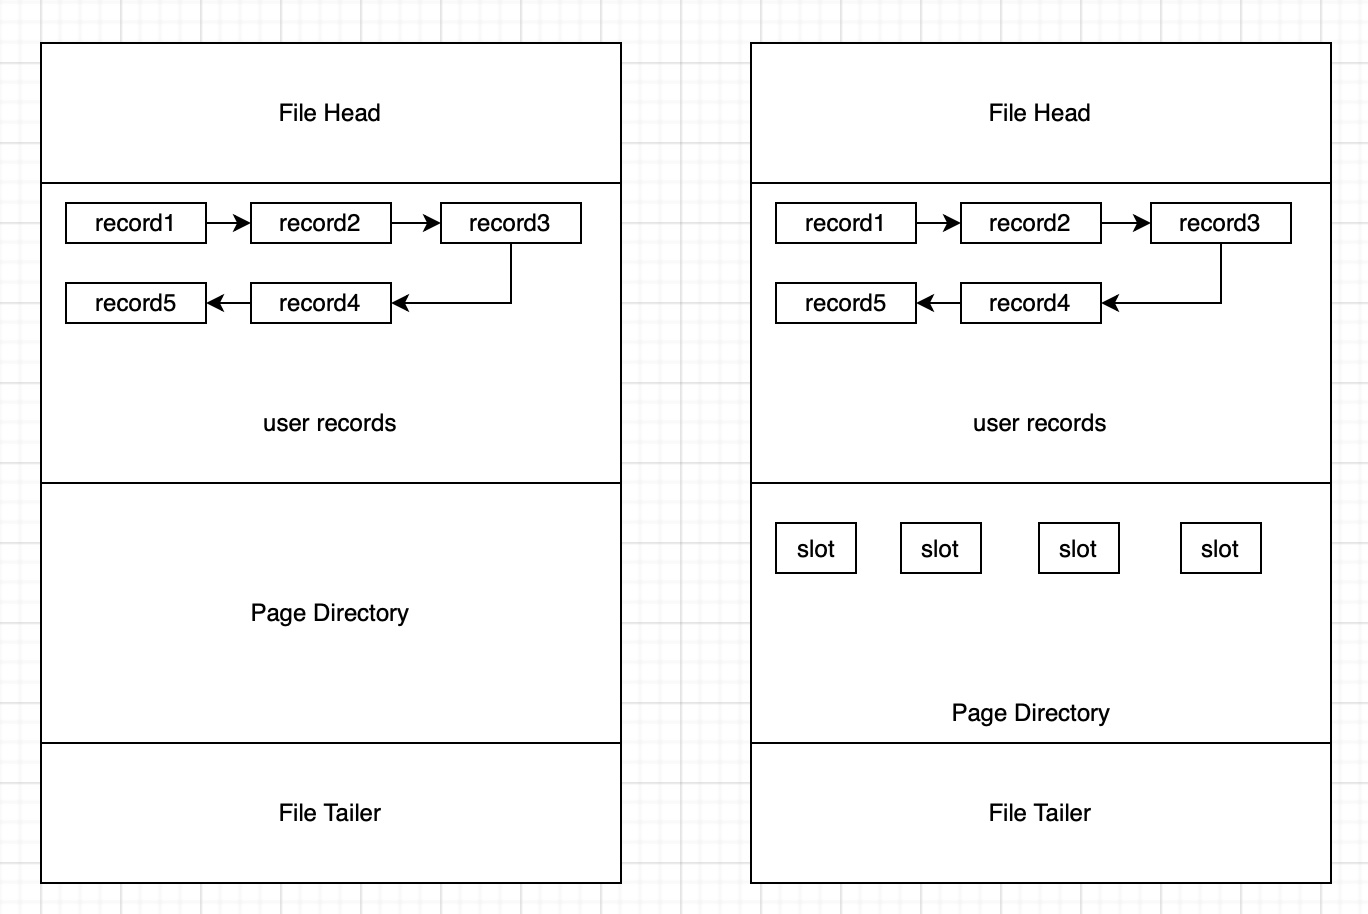
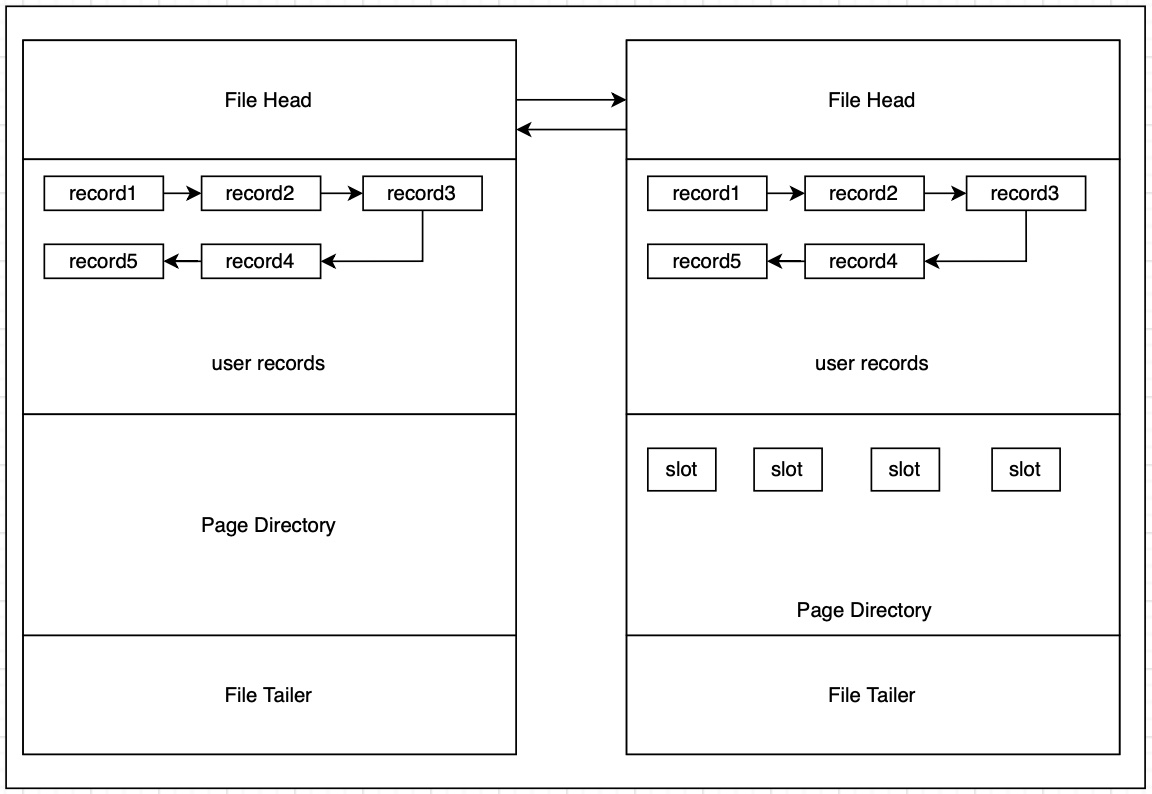
deploy: chuck1in/chuck1in.github.io.source@e59811890db943a7ca34f380ed57c05d58be0c98

diff --git a/post/sqlindex_principle/index.html b/post/sqlindex_principle/index.html
@@ -63,58 +63,60 @@
 <p>上图中的行格式就规定：除了保存记录的列信息以外，还需要在行中保存额外的信息，如：变长字段的占为长度、空值的列、行的头（head）信息等。
 行的头信息中有一个名为 next_record 的指向下一条记录在磁盘上的偏移量的指针，使表中的行构成一个链表，链表的各个节点通过指向磁盘偏移量的指针进行连接。</p>
 <h2 id=页>页</h2>
-<p>innodb 规定，每次从磁盘检索加载数据都以页（16KB/页）为单位。再进一步讲，页就是 innodb 管理存储空间的基本单位。
+<p>是 innodb 管理存储空间的基本单位。 innodb 每次从磁盘检索并加载数据都以页（16KB/页）为单位。
 页有不同的类型，用来保存用户数据的页称为索引页/数据页。一个简化的数据页结构如下所示：</p>
 <p><img src=/images/mysql/page.jpg alt=page></p>
 <p>可见，一个数据页除了保存 user records 以外，还保存了页的元数据（meta data）。</p>
 <h3 id=页目录>页目录</h3>
-<p>由于数据表中的 record 使用 next_record 指针构成一个链表，所以下面查找某一行数据的查询语句</p>
+<p>上文中提到，表中的 record 使用 next_record 指针构成一个链表，所以查找某一行数据在物理上就是已知一个链表的地址，查找链表中某节点的问题。</p>
 <div class=highlight><pre tabindex=0 style=color:#f8f8f2;background-color:#272822;-moz-tab-size:4;-o-tab-size:4;tab-size:4><code class=language-sql data-lang=sql><span style=color:#66d9ef>select</span> <span style=color:#f92672>*</span> <span style=color:#66d9ef>from</span> <span style=color:#66d9ef>table</span> <span style=color:#66d9ef>where</span> id <span style=color:#f92672>=</span> <span style=color:#ae81ff>1</span>;
-</code></pre></div><p>在物理上就是已知一个链表的地址，查找链表中某节点的问题。而查找链表中的节点通常可以采用线性查找法来实现。但是线性查找法的时间复杂度是 $O(n$)，如果数据量较大这个时间复杂度是难以接受的。</p>
+</code></pre></div><p>查找链表中的节点通常可以采用线性查找法来实现。但是线性查找法的时间复杂度是 $O(n$)，如果数据量较大这个时间复杂度是难以接受的。</p>
 <p>为了降低查询的时间复杂度， innodb 采取了类似文件目录的方案。
-首先将用户数据进行逻辑分组，再将每组中最大的记录的地址偏移量集中存储到一起的。当查询某条记录时，先查询记录所在的分组（文件目录），再进入组内（目录内）查找，这样就缩小了线性查找的范围。</p>
-<p><img src=/images/mysql/page-directory.jpg alt=directory></p>
-<p>像这样对数据进行逻辑分组，然后再选取记录分组地址偏移量进行集中存储的空间，我们称为页目录（Page Directory）。</p>
-<p>前面提到过 records 是按照主键顺序排列的，所以在页目录中还可以利用二分查找提升页目录的搜索效率，将时间复杂度降低为 $O(\log n)$</p>
+首先将用户数据进行逻辑分组，再将每组中最大的记录的地址偏移量集中存储到一起的。当查询某条记录时，先查询记录所在的分组（文件目录），再进入组内（目录内）查找，这样就缩小了线性查找的范围。
+像这样对数据进行逻辑分组，然后再选取记录分组地址偏移量进行集中存储的空间，我们称为页目录（Page Directory）。</p>
+<p><img src=/images/mysql/page-dir.jpg alt=directory></p>
+<p>由于 record 是按照主键顺序排列存储在数据页中的，所以还可以利用二分查找提升页目录的搜索效率，将时间复杂度降低为 $O(\log n)$</p>
 <h2 id=聚簇索引>聚簇索引</h2>
-<p>页的大小是有限的（16KB）。如果表中的记录超出了这个容量，那就得使用多个关联页来存储。这些关联页之间通过指针连接形成一个双向链表。</p>
+<p>页的大小是有限的（16KB）。如果表中的记录超出了这个容量，那就得使用多个页来存储 records。然后通过指针将页关联起来，形成一个页的双向链表。</p>
 <p><img src=/images/mysql/page-dirs.jpg alt=dirs></p>
-<p>所以当使用多个页存储数据时，查询用户记录的工作就变为了两步：</p>
+<p>所以当使用多个页存储数据时，查询 record 的工作就变为了两步：</p>
 <ol>
-<li>确定记录所在的页的地址。</li>
-<li>在页中通过页目录查找记录在页中的偏移量。</li>
+<li>确定记录所在的页的地址（页号）。</li>
+<li>通过页目录查找记录在页中的偏移量。</li>
 </ol>
-<p>因为关联的数据页是一个链表结构，所以通过线性查找法肯定可以找到被查找记录所在的页，但是在数据量较大时也存在一样的性能问题。</p>
-<p>那么，是否可以参考页目录的设计将页进行分组呢？先按照页号分组，并保证分组按照数据页中的用户记录的主键顺序进行排序，最后再用一个数据页作为分组后的目录，保存各组中数据页内最小的主键值。</p>
+<p>因为数据页是链表的结构，所以通过线性查找法肯定可以找到被查找记录所在的页。但是在数据量较大时线性查找法的性能依然存在问题。</p>
+<p>那么，是否可以参考页目录的设计将页进行分组呢？先按照页号分组，并保证分组按照数据页中用户记录的主键进行排序，最后再用一个数据页作为分组后的目录，保存各组中数据页内最小的主键值。</p>
 <p><img src=/images/mysql/index.jpg alt=index></p>
-<p>经过这样的构建，复数个关联页形成了一颗 B 树。树根所在的节点就是根页(root page)；存储页号的数据页被称为目录项页；整棵树就是聚簇索引。</p>
-<p>假设我们使用指定值的主键（或者唯一二级索引）为条件，对这个聚簇索引进行查询的话，这个查询的速度会像火箭一样快。</p>
+<p>经过对页进行分组与抽象，使的页从链表转化为一颗 树。树根所在的节点就是根页(root page)；树的内节点是目录项页，用来存储主键与页号的映射；树的叶节点存储完整的记录；整颗 B+ 树就叫做聚簇索引。</p>
+<p>假设我们使用主键（或者唯一二级索引）的等值为条件对这个聚簇索引进行查询的话，这个查询的速度会像火箭一样快。</p>
 <div class=highlight><pre tabindex=0 style=color:#f8f8f2;background-color:#272822;-moz-tab-size:4;-o-tab-size:4;tab-size:4><code class=language-sql data-lang=sql><span style=color:#f92672>//</span> A
 <span style=color:#66d9ef>select</span> <span style=color:#f92672>*</span> <span style=color:#66d9ef>from</span> <span style=color:#66d9ef>table</span> <span style=color:#66d9ef>where</span> id <span style=color:#f92672>=</span> <span style=color:#ae81ff>5</span>;
 <span style=color:#f92672>//</span> <span style=color:#66d9ef>output</span>: id:<span style=color:#ae81ff>5</span> code:b
-</code></pre></div><p>先通过聚簇索引的目录页利用二分查找定位到 id=5 的记录应该在页号为 2 的页中，然后在页目录（Page directory）中再使用二分查找定位到 id=5 的记录在页中的偏移量就能获取到记录内容。</p>
-<p>这种像火箭一样快的查询方法，我们称为常数方法（const）——因为他的效率就和 $O(1$) 一样好。</p>
+</code></pre></div><p>利用二分查找，innodb 先通过聚簇索引的目录项页定位到 <code>id=5</code> 的记录应该在页号为 2 的页中；然后在页 2 的页目录（Page directory） 里搜索<code>id=5</code> 的记录在页中的偏移量就能获取到记录内容。</p>
+<p>这种像火箭一样快的查询方法，我们称为常数方法（const）—— 因为他的效率就和 $O(1$) 一样好。</p>
 <h2 id=二级索引>二级索引</h2>
 <p>针对非主键建立的索引就是二级索引。相比聚簇索引，二级索引的叶节点只存储了两类信息：索引项与索引项对应的主键。</p>
 <p><img src=/images/mysql/ref.jpg alt=ref></p>
-<p>由于二级索引没有存储用户记录的所有列信息，所以针对二级索引的查询工作就变成了三步：</p>
+<p>由于二级索引没有存储 record 的完整信息，所以针对二级索引的查询工作就变成了三步：</p>
 <ol>
 <li>确定记录所在的页。</li>
-<li>在页中通过页目录查找。</li>
-<li>查找到二级索引对应的主键后，回聚簇索引查找完整的内容。</li>
+<li>在页中通过页目录查找记录。</li>
+<li>根据第二步记录的主键，回聚簇索引查找完整的内容。</li>
 </ol>
-<p>这种回聚簇索引查询用户记录的情况，我们称为回表扫描。通过二级索引进行查询的方法称为 ref 查询方法，它的性能相比 const 方法要低一些。</p>
+<p>这种回聚簇索引查询完整记录的方式被称为回表扫描。通过二级索引进行查询的方法称为 ref 查询方法。</p>
 <div class=highlight><pre tabindex=0 style=color:#f8f8f2;background-color:#272822;-moz-tab-size:4;-o-tab-size:4;tab-size:4><code class=language-sql data-lang=sql><span style=color:#f92672>//</span> A
 <span style=color:#66d9ef>select</span> <span style=color:#f92672>*</span> <span style=color:#66d9ef>from</span> <span style=color:#66d9ef>table</span> <span style=color:#66d9ef>where</span> code <span style=color:#f92672>=</span> <span style=color:#e6db74>&#39;a&#39;</span>;
 <span style=color:#f92672>//</span> <span style=color:#66d9ef>output</span>: code:a id:<span style=color:#ae81ff>1</span>
-</code></pre></div><p>如果我们只需要根据二级索引查询 id（主键）的信息，那么就不需要回表扫描了，通过二级索引就可以直接返回结果。这种查询方法称为索引覆盖（index）查询方法。</p>
+</code></pre></div><p>ref 查询方法的性能要比 const 方法低一些。</p>
+<p>但是，假设只根据二级索引查询 id（主键）的信息，那么就不需要回表扫描了，因为二级索引包含了被查询列的信息。</p>
 <div class=highlight><pre tabindex=0 style=color:#f8f8f2;background-color:#272822;-moz-tab-size:4;-o-tab-size:4;tab-size:4><code class=language-sql data-lang=sql><span style=color:#f92672>//</span> B
 <span style=color:#66d9ef>select</span> id <span style=color:#66d9ef>from</span> <span style=color:#66d9ef>table</span> <span style=color:#66d9ef>where</span> code <span style=color:#f92672>=</span> <span style=color:#e6db74>&#39;a&#39;</span>;
 <span style=color:#f92672>//</span> <span style=color:#66d9ef>output</span>: id:<span style=color:#ae81ff>1</span>
-</code></pre></div><h2 id=联合索引>联合索引</h2>
-<p>联合索引就是由多个字段组合，并按照联合字段的顺序对用户记录进行排序的二级索引。</p>
+</code></pre></div><p>查询二级索引可以直接获取到结果的查询方法称为索引覆盖（index）查询方法。</p>
+<h2 id=联合索引>联合索引</h2>
+<p>假如一个二级索引由多个字段组成，那这个二级索引就是一个联合索引。</p>
 <p><img src=/images/mysql/union-index.jpg alt=union></p>
-<p>针对联合索引进行查询时，要注意查询条件需遵守「左前缀原则」，这是由联合索引的底层构造所决定的。不然就无法利用联合索引进行查询。</p>
+<p>针对联合索引进行查询要注意查询条件需遵守「左前缀原则」——这是由联合索引的底层构造所决定的。不然就无法利用联合索引进行查询。</p>
 <div class=highlight><pre tabindex=0 style=color:#f8f8f2;background-color:#272822;-moz-tab-size:4;-o-tab-size:4;tab-size:4><code class=language-sql data-lang=sql><span style=color:#f92672>//</span> A
 <span style=color:#66d9ef>select</span> id <span style=color:#66d9ef>from</span> <span style=color:#66d9ef>table</span> <span style=color:#66d9ef>where</span> code <span style=color:#f92672>=</span> <span style=color:#e6db74>&#39;a&#39;</span> <span style=color:#66d9ef>and</span> code2 <span style=color:#f92672>=</span> <span style=color:#e6db74>&#39;b&#39;</span>;
 <span style=color:#f92672>//</span> <span style=color:#66d9ef>output</span>: id:<span style=color:#ae81ff>1</span>
@@ -128,25 +130,25 @@
 <span style=color:#f92672>//</span> <span style=color:#66d9ef>output</span>: id:<span style=color:#ae81ff>1</span>
 
 
-</code></pre></div><p>上面的语句中，A 语句和 B 语句的查询条件（code && code2）、（code）和联合索引（code,code2）的索引字段顺序一致，所以可以通过索引树提高查找效率。
-B 语句的查询条件不符合索引字段的顺序，所以无法利用索引树查询提高效率，存储引擎在执行时会使用全表扫描查询方法（all）。</p>
+</code></pre></div><p>上面的语句中，A 语句和 B 语句的查询条件 <code>[(code && code2),(code)]</code> 和联合索引 <code>(code,code2)</code> 的索引字段顺序一致，可以通过索引树提高查找效率。
+但是由于 B 语句的查询条件不符合索引字段的顺序，所以无法利用索引树提高查询效率。</p>
 <div class=highlight><pre tabindex=0 style=color:#f8f8f2;background-color:#272822;-moz-tab-size:4;-o-tab-size:4;tab-size:4><code class=language-sql data-lang=sql><span style=color:#f92672>//</span> D
 <span style=color:#66d9ef>select</span> id <span style=color:#66d9ef>from</span> <span style=color:#66d9ef>table</span> <span style=color:#66d9ef>where</span> code <span style=color:#f92672>&gt;</span> <span style=color:#e6db74>&#39;a&#39;</span> <span style=color:#66d9ef>and</span> code2 <span style=color:#f92672>&lt;</span> <span style=color:#e6db74>&#39;g&#39;</span>
 
 <span style=color:#f92672>//</span> E
 <span style=color:#66d9ef>select</span> id <span style=color:#66d9ef>from</span> <span style=color:#66d9ef>table</span> <span style=color:#66d9ef>where</span> code <span style=color:#f92672>&gt;</span> <span style=color:#e6db74>&#39;a&#39;</span> <span style=color:#66d9ef>and</span> code2 <span style=color:#f92672>&lt;</span> <span style=color:#e6db74>&#39;g&#39;</span> <span style=color:#66d9ef>and</span> id <span style=color:#f92672>=</span> <span style=color:#ae81ff>6</span>
-</code></pre></div><p>查询语句 D 是一个针对联合索引的范围查询(Range)。因为联合索引按照 (code,code2) 排序，所以 (code,code2) 的范围条件可以形成一个有效的扫描区间$[(a,\forall),(a,g)]$ 。</p>
-<p>查询语句 E 中增加了一个 <code>id=6</code> 的条件，这个条件并不是联合索引的排序字段，所以它不能提供有效的扫描区间，可以直接将 <code>id=6</code> 被替换为 TRUE 。</p>
+</code></pre></div><p>查询语句 D 是一个针对联合索引的范围查询 (Range)。因为联合索引按照<code>(code,code2)</code>排序，所以查询条件<code>(code,code2)</code>可以形成一个关于索引项的扫描区间 $[(a,\forall),(a,g)]$ 。这个扫描区间有助于减少索引项的扫描范围，所以他是一个有效的扫描区间，也就是说查询语句 D 可以利用索引提高查询效率。</p>
+<p>查询语句 E 中相比 D 增加了一个 <code>id=6</code> 的条件，这个条件并不是联合索引的排序字段，它不能提供有效的扫描区间。无法形成有效扫描区间的查询条件，在索引的利用分析中都可以用 TRUE 替换掉。</p>
 <div class=highlight><pre tabindex=0 style=color:#f8f8f2;background-color:#272822;-moz-tab-size:4;-o-tab-size:4;tab-size:4><code class=language-sql data-lang=sql><span style=color:#f92672>//</span> E
 <span style=color:#66d9ef>select</span> id <span style=color:#66d9ef>from</span> <span style=color:#66d9ef>table</span> <span style=color:#66d9ef>where</span> code <span style=color:#f92672>&gt;</span> <span style=color:#e6db74>&#39;a&#39;</span> <span style=color:#66d9ef>and</span> code2 <span style=color:#f92672>&lt;</span> <span style=color:#e6db74>&#39;g&#39;</span> <span style=color:#66d9ef>and</span> <span style=color:#66d9ef>TRUE</span>
-</code></pre></div><p>TRUE 和前两个条件 (code,code2) 使用 and 进行连接。从扫描区间上来说，就是对 $(-\infty,+\infty)$ 和 $[(a,\forall),(a,g)]$ 取并集。于是整个查询语句的扫描区间就是 $[(a,\forall),(a,g)]$ 。</p>
+</code></pre></div><p>剩下的可以对使用 and 进行连接的查询条件形成的扫描区间求交集：$(-\infty,+\infty) \cup [(a,\forall),(a,g)] = [(a,\forall),(a,g)]$ 得出查询语句 E 可以利用索引提高查询效率的结论。</p>
 <h2 id=使用索引排序和分组>使用索引排序和分组</h2>
 <h4 id=排序>排序</h4>
-<p>对于大数据量进行排序是比较耗时的。这不仅仅是在内存中运行排序算法的 CPU 成本，还有将排序的中间结果保存到磁盘造成的 IO 成本。
-但是若利用索引的物理结构本身有序的这个特性，就可以省去额外的排序工作。</p>
+<p>对于大数据量进行排序是比较耗时的，这不仅仅是在内存中运行排序算法的 CPU 成本，还有将排序的中间结果保存到磁盘造成的 IO 成本。
+但是若利用索引的物理结构本身有序的特性，就可以省去额外的排序工作。</p>
 <div class=highlight><pre tabindex=0 style=color:#f8f8f2;background-color:#272822;-moz-tab-size:4;-o-tab-size:4;tab-size:4><code class=language-sql data-lang=sql><span style=color:#f92672>//</span> F
 <span style=color:#66d9ef>select</span> <span style=color:#f92672>*</span> <span style=color:#66d9ef>from</span> <span style=color:#66d9ef>table</span> <span style=color:#66d9ef>where</span> code <span style=color:#f92672>&gt;</span> <span style=color:#e6db74>&#39;a&#39;</span> <span style=color:#66d9ef>and</span> code2 <span style=color:#f92672>&lt;</span> <span style=color:#e6db74>&#39;g&#39;</span> <span style=color:#66d9ef>order</span> <span style=color:#66d9ef>by</span> code;
-</code></pre></div><p>上面已经提到过，F 这个查询语句会根据扫描区间扫描二级索引并回表查询记录。当完成扫描区间的二级索引回表查询的工作，并整合结果集后，由于查询语句的排序条件，就是联合索引的排序条件，所以省去了额外的排序的步骤，innodb 可以直接将结果集返回给客户端。</p>
+</code></pre></div><p>上面已经提到过，F 这个查询语句会根据扫描区间扫描二级索引并回表查询记录。当完成扫描区间的二级索引回表查询的工作并整合结果集后，由于查询语句的排序条件联合索引的顺序一直，所以省去了额外的排序的步骤，innodb 可以直接将结果集返回给客户端。</p>
 <h4 id=分组>分组</h4>
 <p>分组操作如果缺少索引，innodb 会在扫描聚簇索引的记录时，新建一个临时表来存储分组的统计结果。统计完成后，将临时表的内容发送给客户端。</p>
 <div class=highlight><pre tabindex=0 style=color:#f8f8f2;background-color:#272822;-moz-tab-size:4;-o-tab-size:4;tab-size:4><code class=language-sql data-lang=sql><span style=color:#66d9ef>select</span> <span style=color:#66d9ef>count</span>(<span style=color:#f92672>*</span>) <span style=color:#66d9ef>from</span> <span style=color:#66d9ef>table</span> <span style=color:#66d9ef>group</span> <span style=color:#66d9ef>by</span> code, code2
